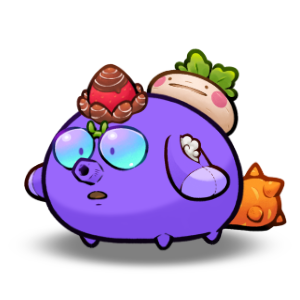
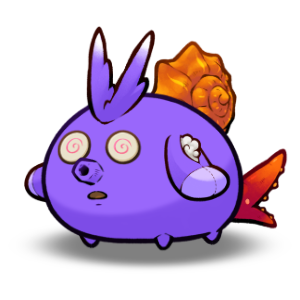
Atualizacao automatica de levels, morph e imagens
Claude-Session: https://claude.ai/code/session_01SwxicoJEJQG7oU5St3zThN

Changed region(s): [[0.15, 0.09, 0.81, 0.57], [0.75, 0.48, 0.96, 0.78]]

diff --git a/data.js b/data.js
@@ -136,7 +136,7 @@ const AXIE_DATA = [
     "genesisParts": {},
     "isMorphed": true,
     "morphParts": null,
[2 lines of base64/hex data omitted]
     "level": 60
   },
   {
@@ -17743,7 +17743,7 @@ const AXIE_DATA = [
     "isMorphed": false,
     "morphParts": null,
     "morphGenesHex": null,
-    "level": 37
+    "level": 38
   },
   {
     "id": "5223",
